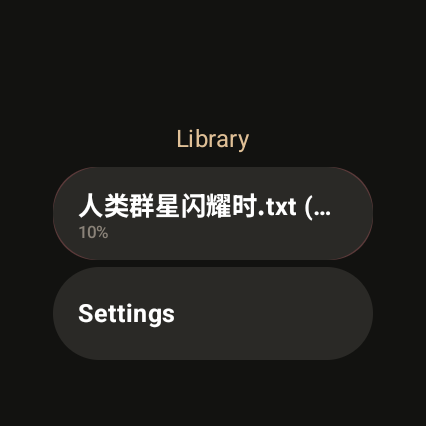
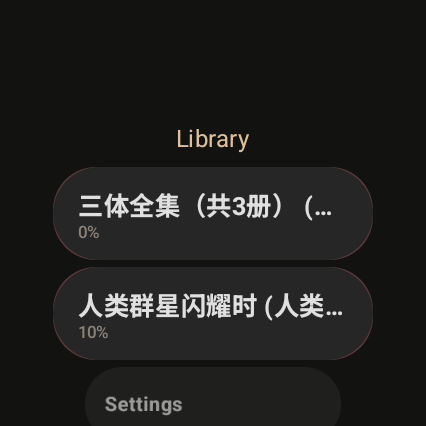
v0.3: Epub support, neutral theme, blank line cleanup
- Add epub parsing on phone (zip → OPF spine → HTML to text)
- File picker accepts .txt and .epub
- Neutral gray theme — no warm/red tones on chips and borders
- Collapse consecutive blank lines in reader
- Strip .txt/.epub from displayed book titles
- TTS highlight only shows during playback
- Mobile app icon matches watch
- Updated screenshots

diff --git a/mobile/src/main/java/com/watchreader/mobile/util/EpubParser.kt b/mobile/src/main/java/com/watchreader/mobile/util/EpubParser.kt
@@ -1,0 +1,93 @@
+package com.watchreader.mobile.util
+
+import java.io.InputStream
+import java.util.zip.ZipInputStream
+
+object EpubParser {
+
+    fun parse(inputStream: InputStream): String {
+        val entries = mutableMapOf<String, ByteArray>()
+        ZipInputStream(inputStream).use { zip ->
+            var entry = zip.nextEntry
+            while (entry != null) {
+                if (!entry.isDirectory) {
+                    entries[entry.name] = zip.readBytes()
+                }
+                entry = zip.nextEntry
+            }
+        }
+
+        // Find OPF path from container.xml
+        val container = entries["META-INF/container.xml"]?.toString(Charsets.UTF_8)
+            ?: throw IllegalArgumentException("Not a valid EPUB file")
+        val opfPath = Regex("""full-path="([^"]+)""").find(container)?.groupValues?.get(1)
+            ?: throw IllegalArgumentException("Cannot find OPF in EPUB")
+
+        val opfContent = entries[opfPath]?.toString(Charsets.UTF_8)
+            ?: throw IllegalArgumentException("Cannot read OPF")
+        val opfDir = opfPath.substringBeforeLast("/", "")
+
+        // Parse manifest: id -> href
+        val manifest = mutableMapOf<String, String>()
+        Regex("""<item[^>]*?/?>""").findAll(opfContent).forEach { m ->
+            val tag = m.value
+            val id = Regex("""id="([^"]*)""").find(tag)?.groupValues?.get(1) ?: return@forEach
+            val href = Regex("""href="([^"]*)""").find(tag)?.groupValues?.get(1) ?: return@forEach
+            val mediaType = Regex("""media-type="([^"]*)""").find(tag)?.groupValues?.get(1) ?: ""
+            if (mediaType.contains("html") || mediaType.contains("xml")) {
+                manifest[id] = href
+            }
+        }
+
+        // Parse spine: ordered list of idref
+        val spine = mutableListOf<String>()
+        Regex("""<itemref[^>]*?/?>""").findAll(opfContent).forEach { m ->
+            val idref = Regex("""idref="([^"]*)""").find(m.value)?.groupValues?.get(1) ?: return@forEach
+            spine.add(idref)
+        }
+
+        // Read chapters in spine order, convert HTML to text
+        val result = StringBuilder()
+        for (idref in spine) {
+            val href = manifest[idref] ?: continue
+            val path = if (opfDir.isNotEmpty()) "$opfDir/$href" else href
+            val html = entries[path]?.toString(Charsets.UTF_8) ?: continue
+            val text = htmlToText(html)
+            if (text.isNotBlank()) {
+                result.appendLine(text)
+                result.appendLine()
+            }
+        }
+        return result.toString().trim()
+    }
+
+    private fun htmlToText(html: String): String {
+        var s = html
+        // Remove style/script blocks
+        s = s.replace(Regex("<(style|script)[^>]*>.*?</(style|script)>", RegexOption.DOT_MATCHES_ALL), "")
+        // Block elements → newlines
+        s = s.replace(Regex("<br[^>]*/?>", RegexOption.IGNORE_CASE), "\n")
+        s = s.replace(Regex("</(p|div|h[1-6]|li|tr|blockquote)>", RegexOption.IGNORE_CASE), "\n")
+        s = s.replace(Regex("<(p|div|h[1-6])[^>]*>", RegexOption.IGNORE_CASE), "\n")
+        // Strip remaining tags
+        s = s.replace(Regex("<[^>]+>"), "")
+        // Decode HTML entities
+        s = s.replace("&nbsp;", " ").replace("&amp;", "&")
+            .replace("&lt;", "<").replace("&gt;", ">")
+            .replace("&quot;", "\"").replace("&#39;", "'")
+            .replace("&mdash;", "\u2014").replace("&ndash;", "\u2013")
+            .replace("&hellip;", "\u2026").replace("&lsquo;", "\u2018")
+            .replace("&rsquo;", "\u2019").replace("&ldquo;", "\u201C")
+            .replace("&rdquo;", "\u201D")
+        s = s.replace(Regex("&#(\\d+);")) {
+            runCatching { it.groupValues[1].toInt().toChar().toString() }.getOrDefault("")
+        }
+        s = s.replace(Regex("&#x([0-9a-fA-F]+);")) {
+            runCatching { it.groupValues[1].toInt(16).toChar().toString() }.getOrDefault("")
+        }
+        // Clean whitespace
+        s = s.replace(Regex("[ \\t]+"), " ")
+        s = s.replace(Regex("\\n{3,}"), "\n\n")
+        return s.trim()
+    }
+}

diff --git a/wear/src/main/java/com/watchreader/wear/ui/screen/LibraryScreen.kt b/wear/src/main/java/com/watchreader/wear/ui/screen/LibraryScreen.kt
@@ -49,8 +49,9 @@ import com.watchreader.wear.ui.theme.WarmWhite
 import com.watchreader.wear.ui.viewmodel.LibraryViewModel
 import kotlinx.coroutines.launch
 
-// Clean neutral chip color
-private val ChipBg = Color(0xFF2A2926)
+// Clean neutral chip colors — no warm/red tones
+private val ChipBg = Color(0xFF262626)
+private val ChipContentColor = Color(0xFFE0E0E0)
 
 @Composable
 fun LibraryScreen(
@@ -105,7 +106,7 @@ fun LibraryScreen(
                             book.readOffsetChars.toFloat() / book.totalChars
                         } else 0f
                         SwipeToDeleteChip(
-                            title = book.title,
+                            title = book.title.replace(".txt", "").replace(".epub", ""),
                             subtitle = if (progress > 0f) "${(progress * 100).toInt()}%" else "New",
                             onClick = { onBookClick(book.id) },
                             onDelete = {
@@ -118,7 +119,7 @@ fun LibraryScreen(
                         Chip(
                             onClick = onSettings,
                             label = { Text("Settings") },
-                            colors = ChipDefaults.chipColors(backgroundColor = ChipBg),
+                            colors = ChipDefaults.chipColors(backgroundColor = ChipBg, contentColor = ChipContentColor),
                             modifier = Modifier.fillMaxWidth(0.82f),
                         )
                     }
@@ -166,7 +167,7 @@ private fun SwipeToDeleteChip(
             secondaryLabel = {
                 Text(subtitle, fontSize = 10.sp, color = DimText)
             },
-            colors = ChipDefaults.chipColors(backgroundColor = ChipBg),
+            colors = ChipDefaults.chipColors(backgroundColor = ChipBg, contentColor = ChipContentColor),
             modifier = Modifier
                 .fillMaxWidth()
                 .graphicsLayer { translationX = animatedOffset }

diff --git a/wear/src/main/java/com/watchreader/wear/ui/screen/SettingsScreen.kt b/wear/src/main/java/com/watchreader/wear/ui/screen/SettingsScreen.kt
@@ -78,11 +78,22 @@ fun SettingsScreen() {
         var tts: TextToSpeech? = null
         tts = TextToSpeech(context) { status ->
             if (status == TextToSpeech.SUCCESS) {
-                voiceList = tts?.voices
-                    ?.filter { !it.isNetworkConnectionRequired && it.quality >= 300 }
-                    ?.map { it.name }
-                    ?.sorted()
-                    ?.take(5)
+                val allVoices = tts?.voices
+                    ?.filter { !it.isNetworkConnectionRequired && it.quality >= 200 }
+                    ?.sortedByDescending { it.quality }
+                    ?: emptyList()
+                // Pick diverse voices: try to get different locales and genders
+                val picked = mutableListOf<String>()
+                val seenLocales = mutableSetOf<String>()
+                for (v in allVoices) {
+                    val key = v.locale.language
+                    if (seenLocales.size < 3 || key in seenLocales) {
+                        picked.add(v.name)
+                        seenLocales.add(key)
+                    }
+                    if (picked.size >= 6) break
+                }
+                voiceList = picked
                     ?: emptyList()
             }
         }

diff --git a/mobile/src/main/java/com/watchreader/mobile/data/repository/BookRepository.kt b/mobile/src/main/java/com/watchreader/mobile/data/repository/BookRepository.kt
@@ -9,6 +9,7 @@ import com.watchreader.mobile.data.model.SyncStatus
 import kotlinx.coroutines.Dispatchers
 import kotlinx.coroutines.flow.Flow
 import kotlinx.coroutines.withContext
+import com.watchreader.mobile.util.EpubParser
 import java.io.File
 import java.net.HttpURLConnection
 import java.net.URL
@@ -31,8 +32,16 @@ object BookRepository {
         val id = UUID.randomUUID().toString()
         val destFile = File(booksDir, "$id.txt")
         withContext(Dispatchers.IO) {
-            context.contentResolver.openInputStream(uri)?.use { input ->
-                destFile.outputStream().use { output -> input.copyTo(output) }
+            val mimeType = context.contentResolver.getType(uri)
+            val input = context.contentResolver.openInputStream(uri)
+                ?: throw Exception("Cannot open file")
+            if (mimeType == "application/epub+zip") {
+                val text = EpubParser.parse(input)
+                destFile.writeText(text)
+            } else {
+                input.use { inp ->
+                    destFile.outputStream().use { output -> inp.copyTo(output) }
+                }
             }
         }
         val book = Book(

diff --git a/wear/src/main/java/com/watchreader/wear/ui/theme/WatchReaderWearTheme.kt b/wear/src/main/java/com/watchreader/wear/ui/theme/WatchReaderWearTheme.kt
@@ -17,15 +17,15 @@ val SepiaText = Color(0xFF433422)
 val SepiaAccent = Color(0xFF8B7355)
 
 private val WatchReaderColors = Colors(
-    primary = WarmAmber,
-    primaryVariant = Color(0xFFBE9B6E),
+    primary = Color(0xFFB0B0B0),
+    primaryVariant = Color(0xFF707070),
     secondary = GreenAccent,
     background = WarmBlack,
-    surface = Color(0xFF1E1C18),
+    surface = Color(0xFF1E1E1E),
     onPrimary = Color(0xFF1A1A1A),
     onSecondary = Color.Black,
-    onBackground = WarmWhite,
-    onSurface = WarmWhite,
+    onBackground = Color(0xFFE0E0E0),
+    onSurface = Color(0xFFE0E0E0),
     error = Color(0xFFEF5350),
     onError = Color.White,
 )

diff --git a/wear/src/main/java/com/watchreader/wear/ui/viewmodel/ReaderViewModel.kt b/wear/src/main/java/com/watchreader/wear/ui/viewmodel/ReaderViewModel.kt
@@ -42,8 +42,13 @@ class ReaderViewModel(
             val wearBook = WearBookRepository.getById(bookId) ?: return@launch
             _book.value = wearBook
             val text = WearBookRepository.loadText(wearBook)
-            _fullText.value = text
-            paginate(text)
+            // Normalize line endings and collapse blank lines
+            val cleaned = text
+                .replace("\r", "")
+                .replace(Regex("([ \\t]*\\n){3,}"), "\n\n")
+                .trim()
+            _fullText.value = cleaned
+            paginate(cleaned)
 
             // Restore reading position
             if (wearBook.readOffsetChars > 0) {

diff --git a/mobile/src/main/java/com/watchreader/mobile/ui/screen/AddBookScreen.kt b/mobile/src/main/java/com/watchreader/mobile/ui/screen/AddBookScreen.kt
@@ -106,11 +106,11 @@ fun AddBookScreen(
 
             // File picker
             OutlinedButton(
-                onClick = { filePicker.launch(arrayOf("text/plain")) },
+                onClick = { filePicker.launch(arrayOf("text/plain", "application/epub+zip")) },
                 modifier = Modifier.fillMaxWidth().height(56.dp),
             ) {
                 Text(
-                    if (selectedUri != null) selectedFileName else "Select .txt file",
+                    if (selectedUri != null) selectedFileName else "Select .txt or .epub",
                     fontSize = 16.sp,
                 )
             }

diff --git a/wear/src/main/java/com/watchreader/wear/ui/screen/ReaderScreen.kt b/wear/src/main/java/com/watchreader/wear/ui/screen/ReaderScreen.kt
@@ -121,7 +121,8 @@ fun ReaderScreen(
     }
 
     val pageText = pages.getOrNull(currentPage) ?: ""
-    val annotatedText = buildHighlightedText(pageText, sentenceIndex)
+    val activeHighlight = if (ttsState == TtsState.PLAYING) sentenceIndex else -1
+    val annotatedText = buildHighlightedText(pageText, activeHighlight)
 
     Box(
         modifier = Modifier
